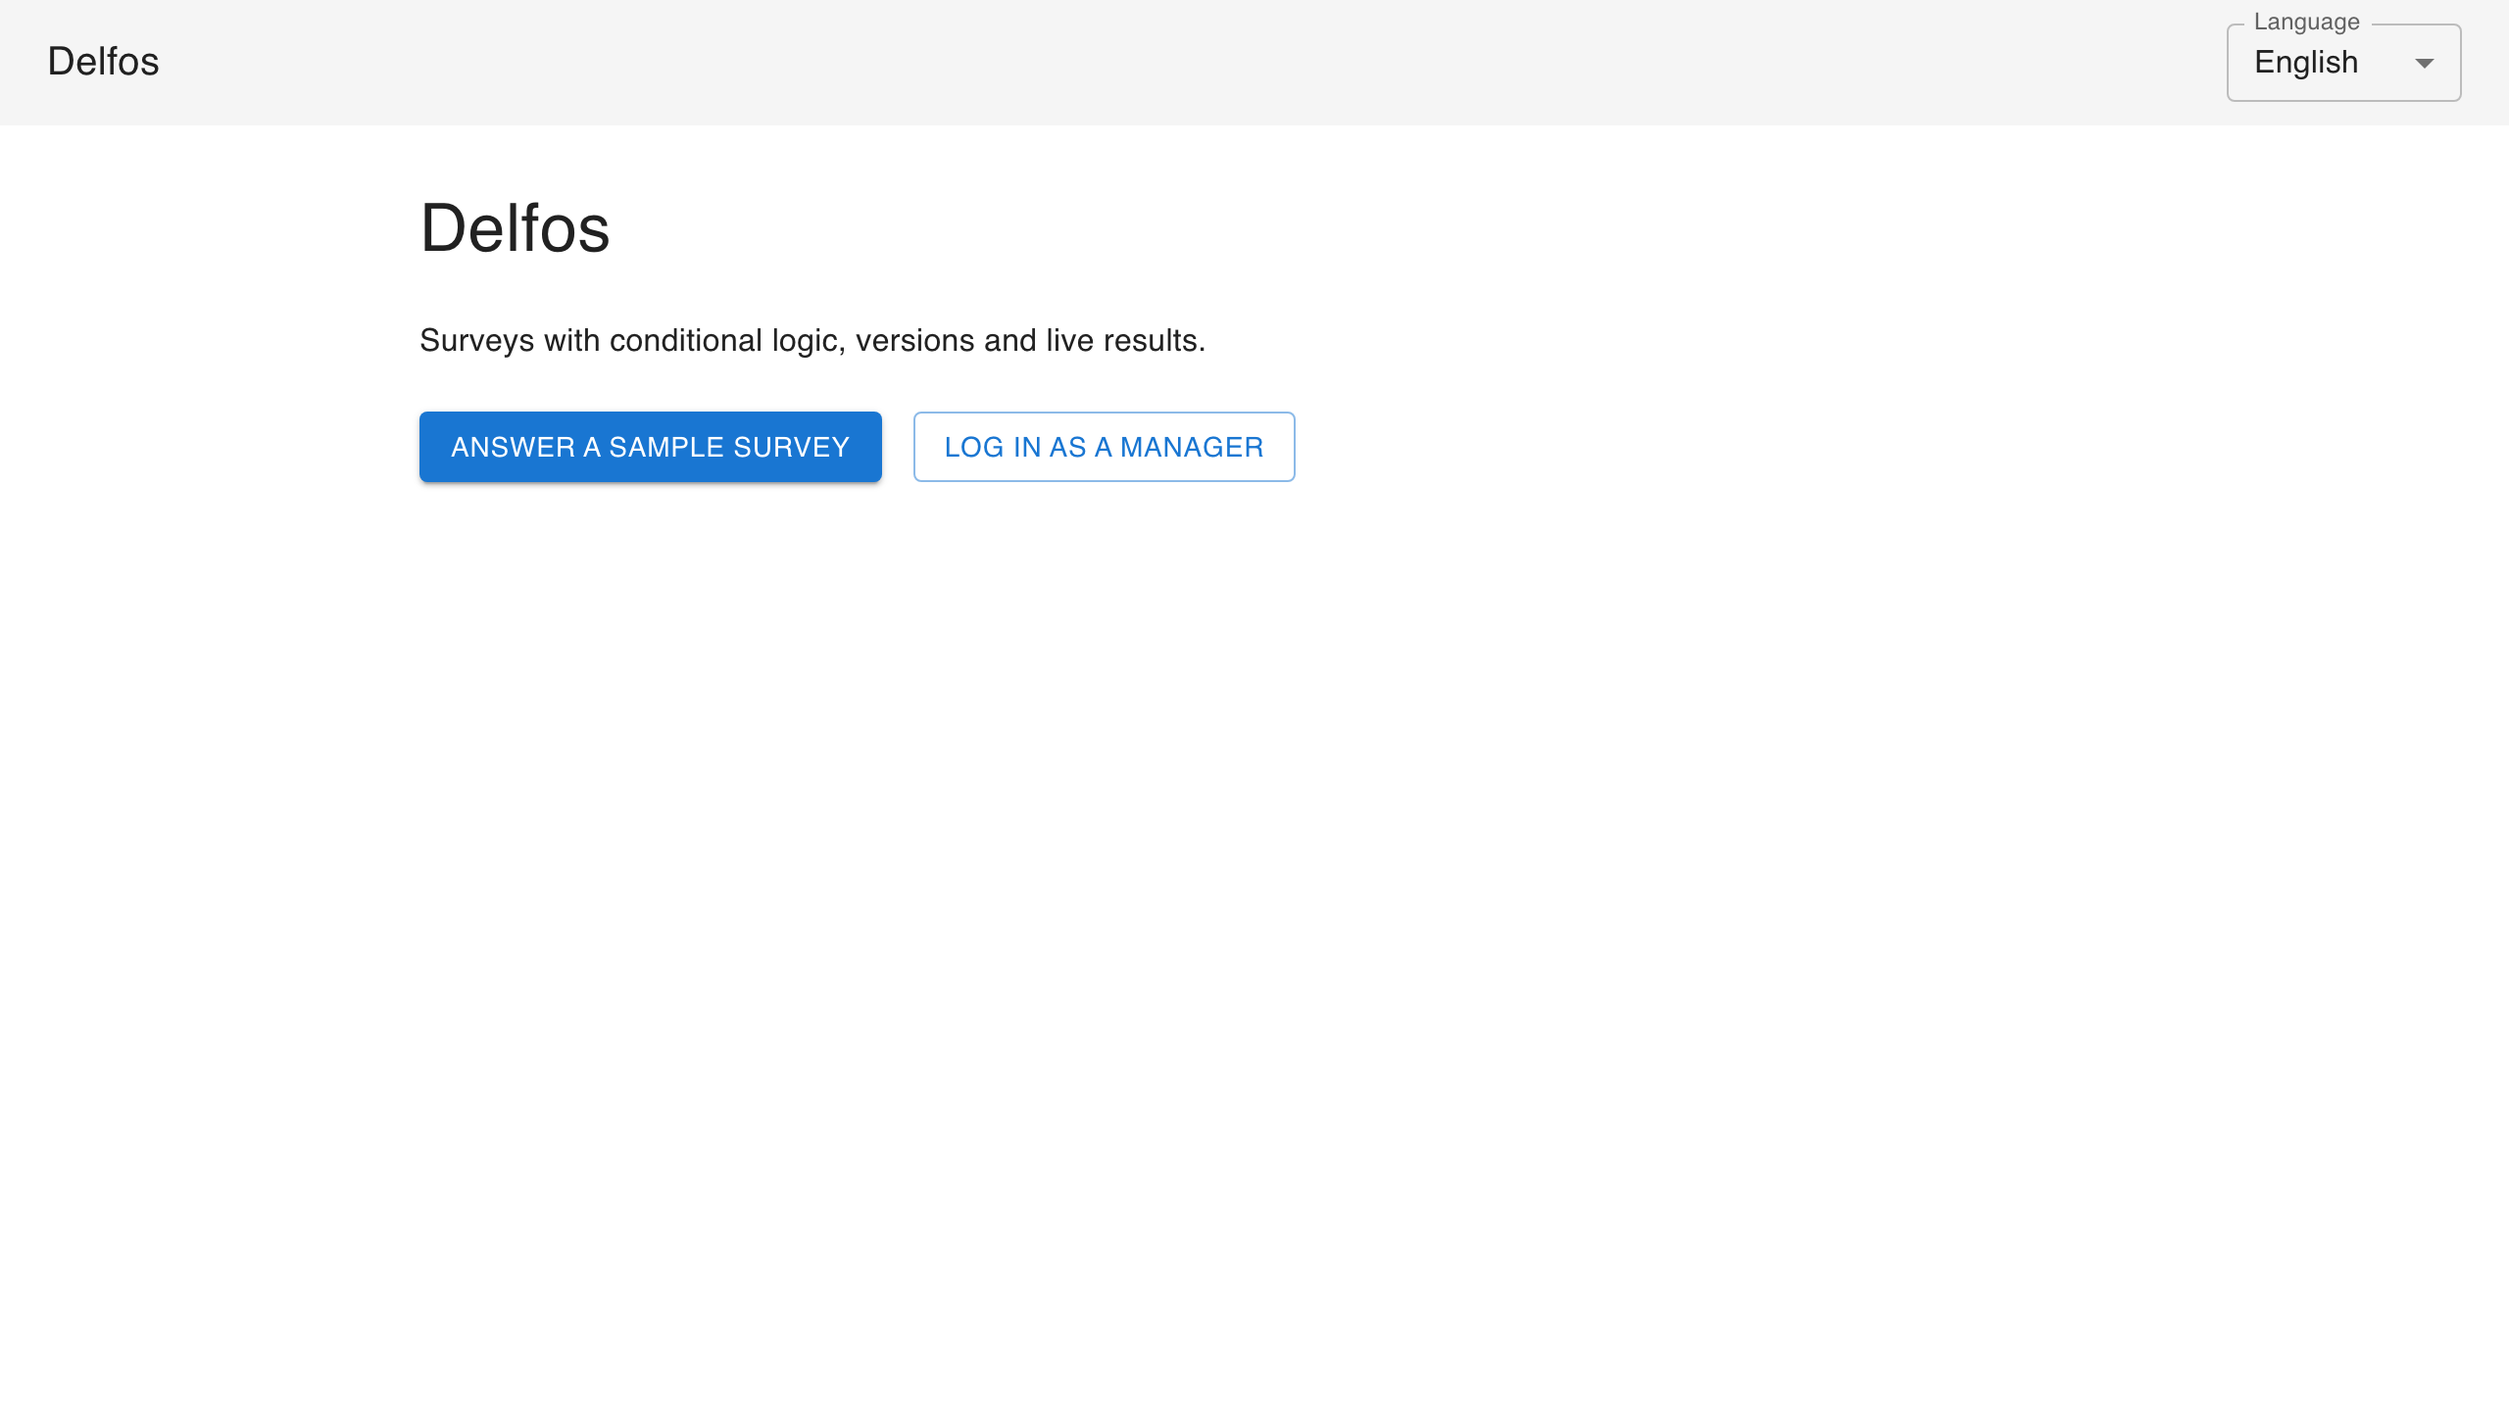
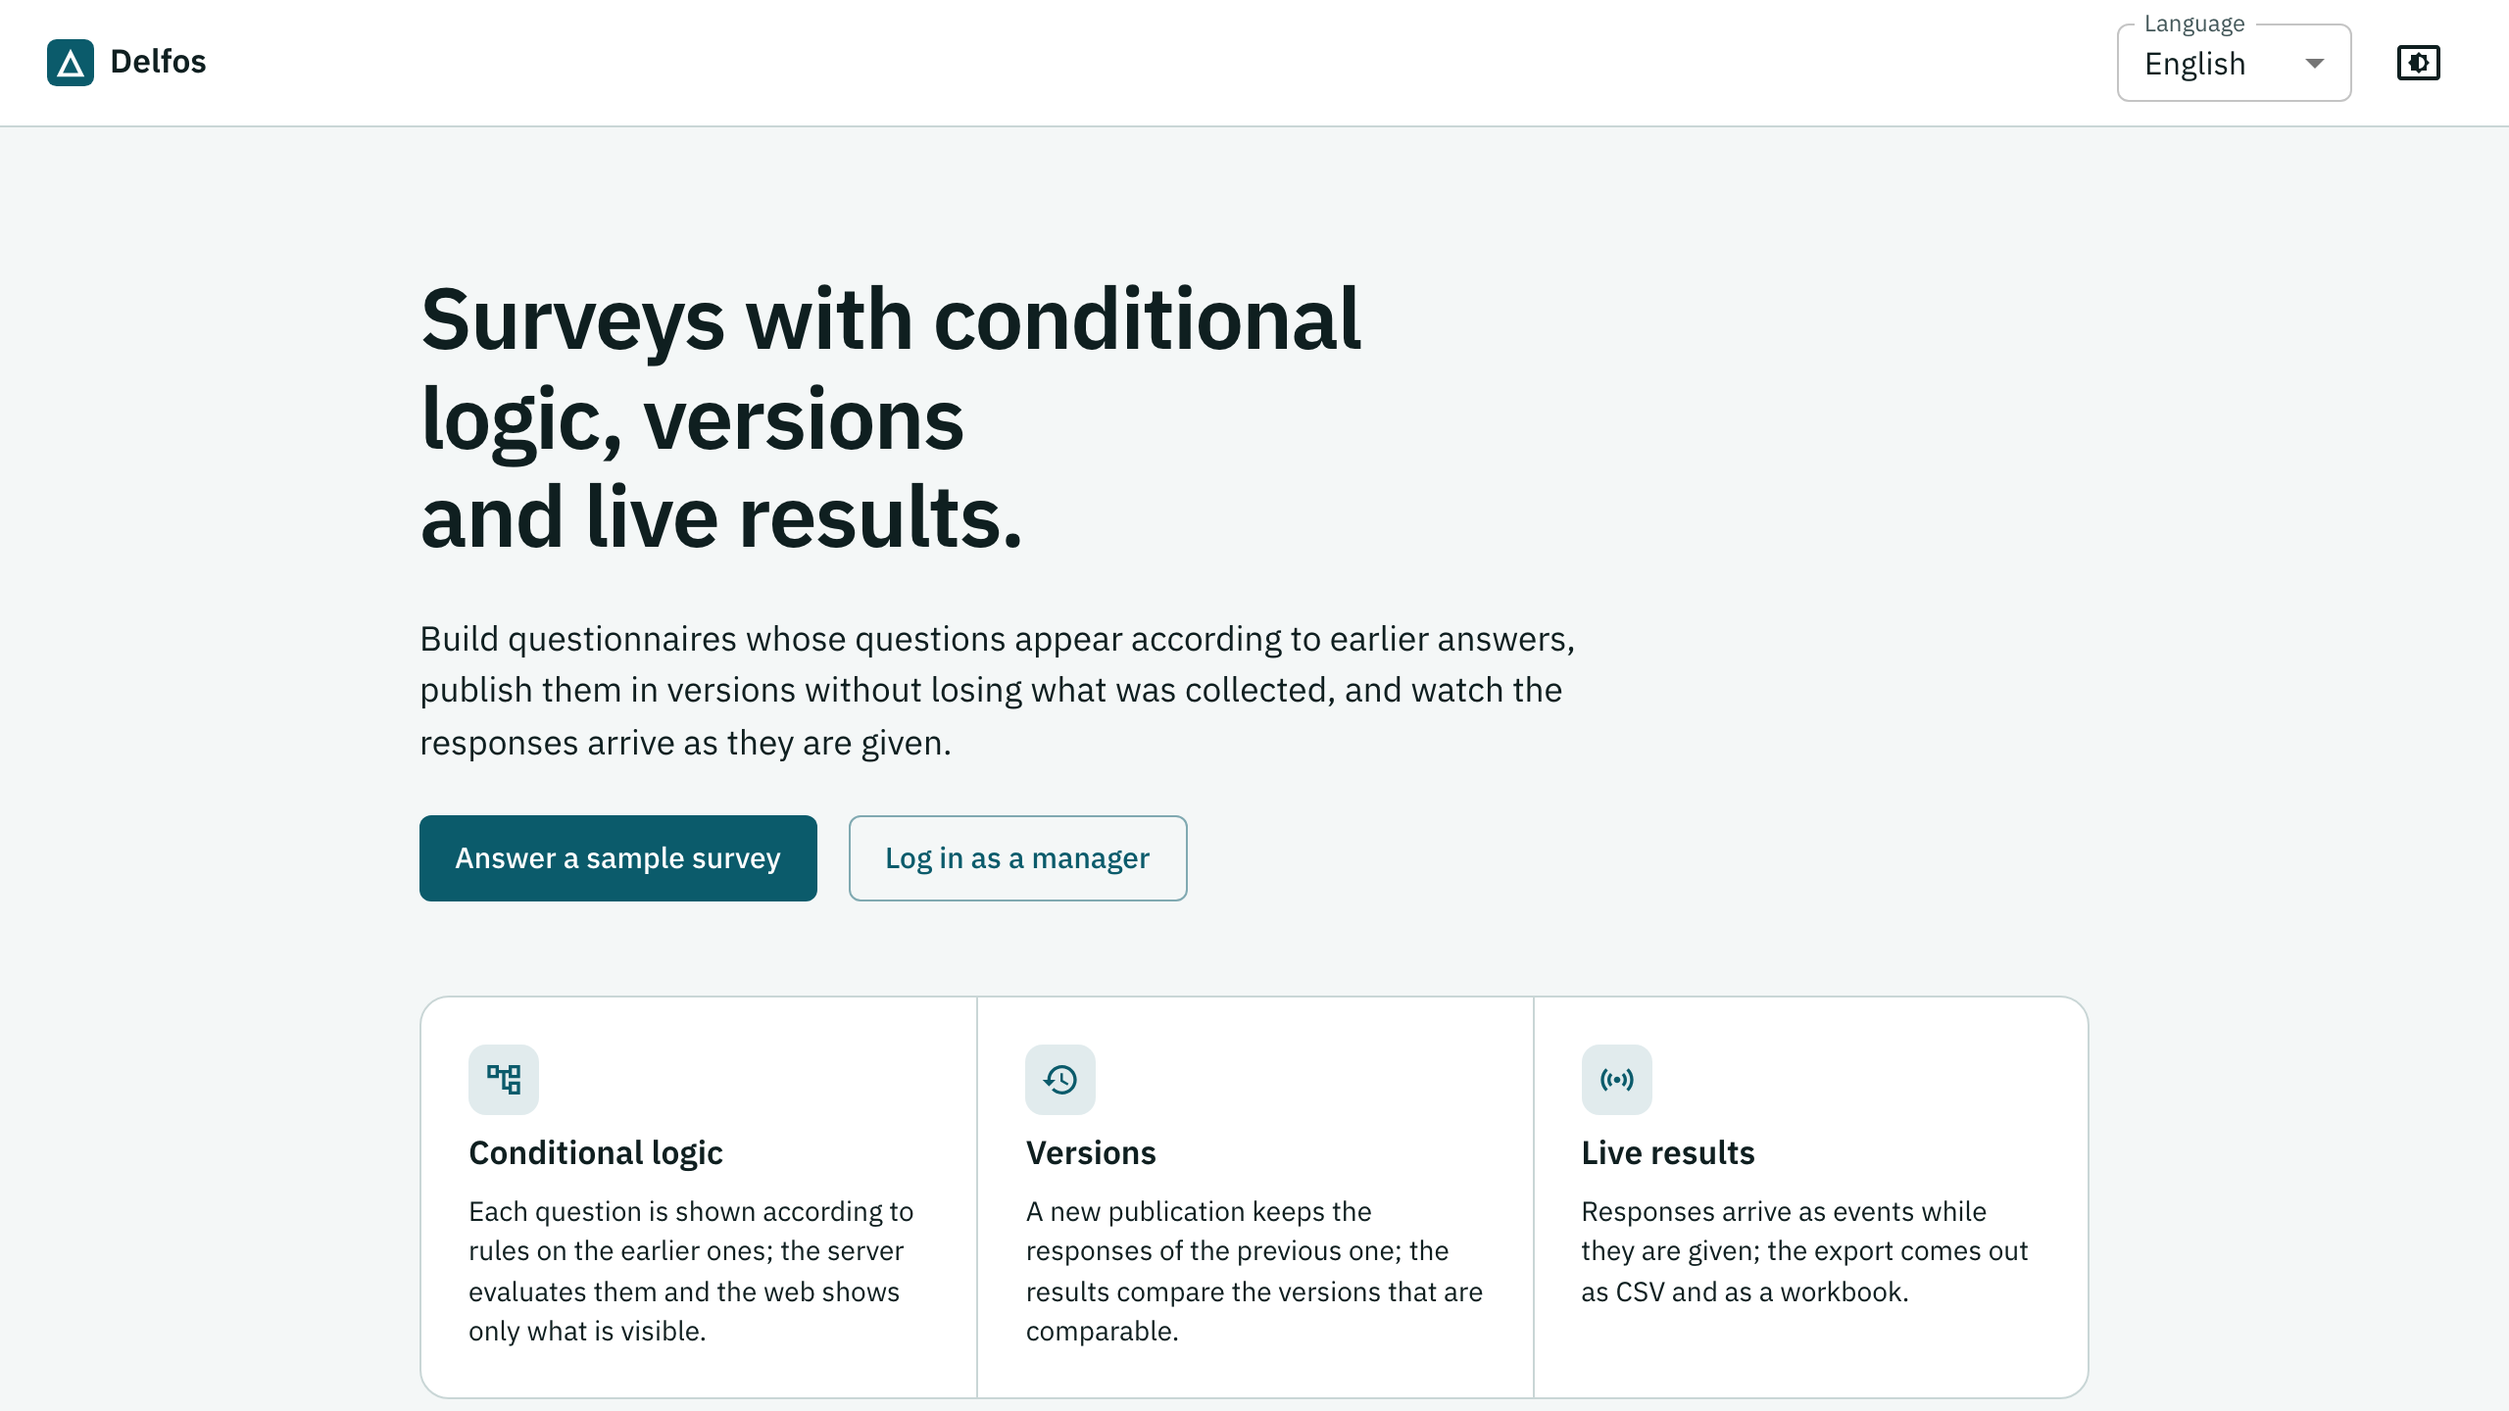
feat(web): give the landing page its traits and every page a footer (#88)
## What changes

The landing page states what Delfos does: the lead sentence as its
heading, an introduction, the two ways in, three traits (conditional
logic, versions, live results) and a note on the public demo. Every page
ends with a footer that links the code, the licence, the accessibility
notes and the version, which the build reads from `version.txt`. The
README screenshots are taken again with the new identity, and the
end-to-end and media specs look for the landing's heading by level
instead of by the word "Delfos", which now lives in the application bar.

Second part of #79; with #87 it completes phase 1 of the design pass.

## Which failure it prevents or which capability it adds

A visitor who lands on the demo now reads in one screen what the project
is and where the code lives; before, the page offered two buttons and
nothing else, and no page linked back to the repository or the licence.

## Which test covers it

The end-to-end path: the landing page in both colour schemes under axe,
the heading by level, and the whole stranger's path over the new shell;
`npm run check` with the bundle budget (840 KB of JavaScript of 900).
The screenshots and the tour recording were produced with `npm run
media` against the local stack and looked at before being committed.

## What is deliberately left out

The tour video the README links is a GitHub asset uploaded by hand; the
new recording replaces it in a separate step. The application shell and
[…]

diff --git a/web/src/pages/Landing.tsx b/web/src/pages/Landing.tsx
@@ -1,4 +1,8 @@
-import { Button, Stack, Typography } from '@mui/material'
+import AccountTreeOutlinedIcon from '@mui/icons-material/AccountTreeOutlined'
+import HistoryOutlinedIcon from '@mui/icons-material/HistoryOutlined'
+import SensorsOutlinedIcon from '@mui/icons-material/SensorsOutlined'
+import { Box, Button, Paper, Stack, Typography } from '@mui/material'
+import type { ReactNode } from 'react'
 import { Link } from 'react-router'
 import { FormattedMessage } from 'react-intl'
 import { usePageTitle } from '../app/usePageTitle'
@@ -14,24 +18,160 @@ export function Landing() {
   const { locale } = useLocale()
   usePageTitle(null)
   return (
-    <Stack spacing={3} sx={{ alignItems: 'flex-start' }}>
-      <Typography variant="h4" component="h1">
-        <FormattedMessage id="app.title" defaultMessage="Delfos" />
-      </Typography>
-      <Typography variant="body1">
-        <FormattedMessage
-          id="landing.lead"
-          defaultMessage="Surveys with conditional logic, versions and live results."
-        />
-      </Typography>
-      <Stack direction={{ xs: 'column', sm: 'row' }} spacing={2}>
-        <Button variant="contained" component={Link} to={`/s/${SAMPLE_SURVEY_PUBLIC_ID[locale]}`}>
-          <FormattedMessage id="landing.answerSample" defaultMessage="Answer a sample survey" />
-        </Button>
-        <Button variant="outlined" component={Link} to="/login">
-          <FormattedMessage id="landing.login" defaultMessage="Log in as a manager" />
-        </Button>
+    <Stack spacing={6}>
+      <Stack spacing={3} sx={{ alignItems: 'flex-start', pt: { xs: 2, sm: 5 } }}>
+        <Typography
+          variant="h3"
+          component="h1"
+          sx={{
+            fontWeight: 600,
+            letterSpacing: '-0.02em',
+            lineHeight: 1.15,
+            fontSize: { xs: '1.9rem', sm: '2.4rem', md: '2.75rem' },
+            maxWidth: '22ch',
+            textWrap: 'balance',
+          }}
+        >
+          <FormattedMessage
+            id="landing.lead"
+            defaultMessage="Surveys with conditional logic, versions and live results."
+          />
+        </Typography>
+        <Typography
+          variant="body1"
+          color="text.secondary"
+          sx={{ fontSize: '1.1rem', maxWidth: '58ch' }}
+        >
+          <FormattedMessage
+            id="landing.intro"
+            defaultMessage="Build questionnaires whose questions appear according to earlier answers, publish them in versions without losing what was collected, and watch the responses arrive as they are given."
+          />
+        </Typography>
+        <Stack direction={{ xs: 'column', sm: 'row' }} spacing={2} sx={{ alignSelf: 'stretch' }}>
+          <Button
+            variant="contained"
+            size="large"
+            component={Link}
+            to={`/s/${SAMPLE_SURVEY_PUBLIC_ID[locale]}`}
+          >
+            <FormattedMessage id="landing.answerSample" defaultMessage="Answer a sample survey" />
+          </Button>
+          <Button variant="outlined" size="large" component={Link} to="/login">
+            <FormattedMessage id="landing.login" defaultMessage="Log in as a manager" />
+          </Button>
+        </Stack>
       </Stack>
+
+      <Box
+        component="ul"
+        sx={{
+          listStyle: 'none',
+          m: 0,
+          p: 0,
+          display: 'grid',
+          gridTemplateColumns: { xs: '1fr', md: 'repeat(3, 1fr)' },
+          border: 1,
+          borderColor: 'divider',
+          borderRadius: 2.5,
+          overflow: 'hidden',
+          bgcolor: 'background.paper',
+        }}
+      >
+        <Trait
+          icon={<AccountTreeOutlinedIcon fontSize="small" />}
+          title={
+            <FormattedMessage id="landing.trait.logic.title" defaultMessage="Conditional logic" />
+          }
+        >
+          <FormattedMessage
+            id="landing.trait.logic.body"
+            defaultMessage="Each question is shown according to rules on the earlier ones; the server evaluates them and the web shows only what is visible."
+          />
+        </Trait>
+        <Trait
+          icon={<HistoryOutlinedIcon fontSize="small" />}
+          title={<FormattedMessage id="landing.trait.versions.title" defaultMessage="Versions" />}
+        >
+          <FormattedMessage
+            id="landing.trait.versions.body"
+            defaultMessage="A new publication keeps the responses of the previous one; the results compare the versions that are comparable."
+          />
+        </Trait>
+        <Trait
+          icon={<SensorsOutlinedIcon fontSize="small" />}
+          title={<FormattedMessage id="landing.trait.live.title" defaultMessage="Live results" />}
+        >
+          <FormattedMessage
+            id="landing.trait.live.body"
+            defaultMessage="Responses arrive as events while they are given; the export comes out as CSV and as a workbook."
+          />
+        </Trait>
+      </Box>
+
+      <Paper variant="outlined" sx={{ p: { xs: 2, sm: 3 } }}>
+        <Typography variant="body2" color="text.secondary">
+          <Typography
+            component="span"
+            variant="body2"
+            sx={{ fontWeight: 500, color: 'text.primary' }}
+          >
+            <FormattedMessage id="landing.demo.title" defaultMessage="A public demo at no cost." />
+          </Typography>{' '}
+          <FormattedMessage
+            id="landing.demo.body"
+            defaultMessage="The accounts demo-manager, demo-manager-2 and demo-admin use the password delfos-demo; the data is reset every day, and the first visit after a quiet night can take up to two minutes while the API wakes."
+          />
+        </Typography>
+      </Paper>
     </Stack>
+  )
+}
+
+function Trait({
+  icon,
+  title,
+  children,
+}: {
+  icon: ReactNode
+  title: ReactNode
+  children: ReactNode
+}) {
+  return (
+    <Box
+      component="li"
+      sx={{
+        p: 3,
+        display: 'grid',
+        gap: 1,
+        alignContent: 'start',
+        minWidth: 0,
+        '& + &': {
+          borderTop: { xs: 1, md: 0 },
+          borderLeft: { xs: 0, md: 1 },
+          borderColor: { xs: 'divider', md: 'divider' },
+        },
+      }}
+    >
+      <Box
+        aria-hidden="true"
+        sx={{
+          width: 36,
+          height: 36,
+          borderRadius: 1.5,
+          display: 'grid',
+          placeItems: 'center',
+          color: 'primary.main',
+          backgroundColor: 'rgba(var(--delfos-palette-primary-mainChannel) / 0.12)',
+        }}
+      >
+        {icon}
+      </Box>
+      <Typography variant="h6" component="h2">
+        {title}
+      </Typography>
+      <Typography variant="body2" color="text.secondary">
+        {children}
+      </Typography>
+    </Box>
   )
 }

diff --git a/web/src/components/SiteFooter.tsx b/web/src/components/SiteFooter.tsx
@@ -1,0 +1,51 @@
+import { Box, Container, Link, Typography } from '@mui/material'
+import { FormattedMessage } from 'react-intl'
+
+const repository = 'https://github.com/majimtor/delfos'
+
+/** The links every page ends with: the code, its licence, what was checked for accessibility, the version. */
+export function SiteFooter() {
+  return (
+    <Box component="footer" sx={{ borderTop: 1, borderColor: 'divider', mt: 6 }}>
+      <Container
+        maxWidth="md"
+        sx={{
+          py: 2.5,
+          display: 'flex',
+          flexWrap: 'wrap',
+          gap: { xs: 1.5, sm: 3 },
+          alignItems: 'center',
+        }}
+      >
+        <Link href={repository} color="text.secondary" underline="hover" variant="body2">
+          <FormattedMessage id="footer.code" defaultMessage="Code on GitHub" />
+        </Link>
+        <Link
+          href={`${repository}/blob/main/LICENSE`}
+          color="text.secondary"
+          underline="hover"
+          variant="body2"
+        >
+          <FormattedMessage id="footer.licence" defaultMessage="MIT licence" />
+        </Link>
+        <Link
+          href={`${repository}/blob/main/docs/accessibility.md`}
+          color="text.secondary"
+          underline="hover"
+          variant="body2"
+        >
+          <FormattedMessage id="footer.accessibility" defaultMessage="Accessibility" />
+        </Link>
+        <Typography variant="body2" color="text.secondary" sx={{ marginLeft: { sm: 'auto' } }}>
+          <Link href={`${repository}/releases`} color="inherit" underline="hover">
+            <FormattedMessage
+              id="footer.version"
+              defaultMessage="Version {version}"
+              values={{ version: __DELFOS_VERSION__ }}
+            />
+          </Link>
+        </Typography>
+      </Container>
+    </Box>
+  )
+}

diff --git a/web/e2e/journey.spec.ts b/web/e2e/journey.spec.ts
@@ -40,7 +40,7 @@ test('a stranger answers the sample survey, then manages it and watches the resu
 }) => {
   await test.step('the landing page leads to the sample survey', async () => {
     await page.goto('/')
-    await expect(page.getByRole('heading', { name: 'Delfos' })).toBeVisible()
+    await expect(page.getByRole('heading', { level: 1 })).toContainText('lógica condicional')
     await expect(page).toHaveTitle('Delfos')
     await expectAccessible(page, 'the landing page')
     // The dark scheme follows the device and gets the same check (ADR 0017).

diff --git a/web/media/tour.spec.ts b/web/media/tour.spec.ts
@@ -17,7 +17,7 @@ test('the tour: answer the sample survey, manage it and watch the results move',
 }, testInfo) => {
   await test.step('landing', async () => {
     await page.goto('/')
-    await expect(page.getByRole('heading', { name: 'Delfos' })).toBeVisible()
+    await expect(page.getByRole('heading', { level: 1 })).toContainText('conditional logic')
     await settle(page, 3_000)
     await page.getByRole('link', { name: 'Answer a sample survey' }).click()
     await expect(page.getByRole('heading', { name: 'Urban mobility' })).toBeVisible()

diff --git a/web/vite.config.ts b/web/vite.config.ts
@@ -1,9 +1,14 @@
 /// <reference types="vitest/config" />
+import { readFileSync } from 'node:fs'
 import react from '@vitejs/plugin-react'
 import { defineConfig } from 'vite'
 
+// The version the footer shows is the one release-please keeps in version.txt at the root.
+const version = readFileSync(new URL('../version.txt', import.meta.url), 'utf8').trim()
+
 export default defineConfig({
   plugins: [react()],
+  define: { __DELFOS_VERSION__: JSON.stringify(version) },
   test: {
     environment: 'jsdom',
     include: ['src/**/*.test.{ts,tsx}'],

diff --git a/web/src/components/AppShell.tsx b/web/src/components/AppShell.tsx
@@ -25,6 +25,7 @@ import { MODES, type Mode } from '../app/colorScheme'
 import { useLogout, useSession } from '../features/auth/session'
 import { useLocale, type Locale } from '../i18n/locale'
 import { BrandMark } from './BrandMark'
+import { SiteFooter } from './SiteFooter'
 
 export function AppShell() {
   const { locale, setLocale } = useLocale()
@@ -123,6 +124,7 @@ export function AppShell() {
       >
         <Outlet />
       </Container>
+      <SiteFooter />
     </Box>
   )
 }

diff --git a/web/media/screenshots.spec.ts b/web/media/screenshots.spec.ts
@@ -17,7 +17,7 @@ test('landing, answer page, survey list and results', async ({ page }, testInfo)
     page.screenshot({ path: path.join(mediaDir, `${name}.png`), fullPage })
 
   await page.goto('/')
-  await expect(page.getByRole('heading', { name: 'Delfos' })).toBeVisible()
+  await expect(page.getByRole('heading', { level: 1 })).toContainText('conditional logic')
   await shot('landing')
 
   await page.getByRole('link', { name: 'Answer a sample survey' }).click()

diff --git a/web/src/version.d.ts b/web/src/version.d.ts
@@ -1,0 +1,2 @@
+/** The version of version.txt at build time, injected by vite.config.ts. */
+declare const __DELFOS_VERSION__: string
